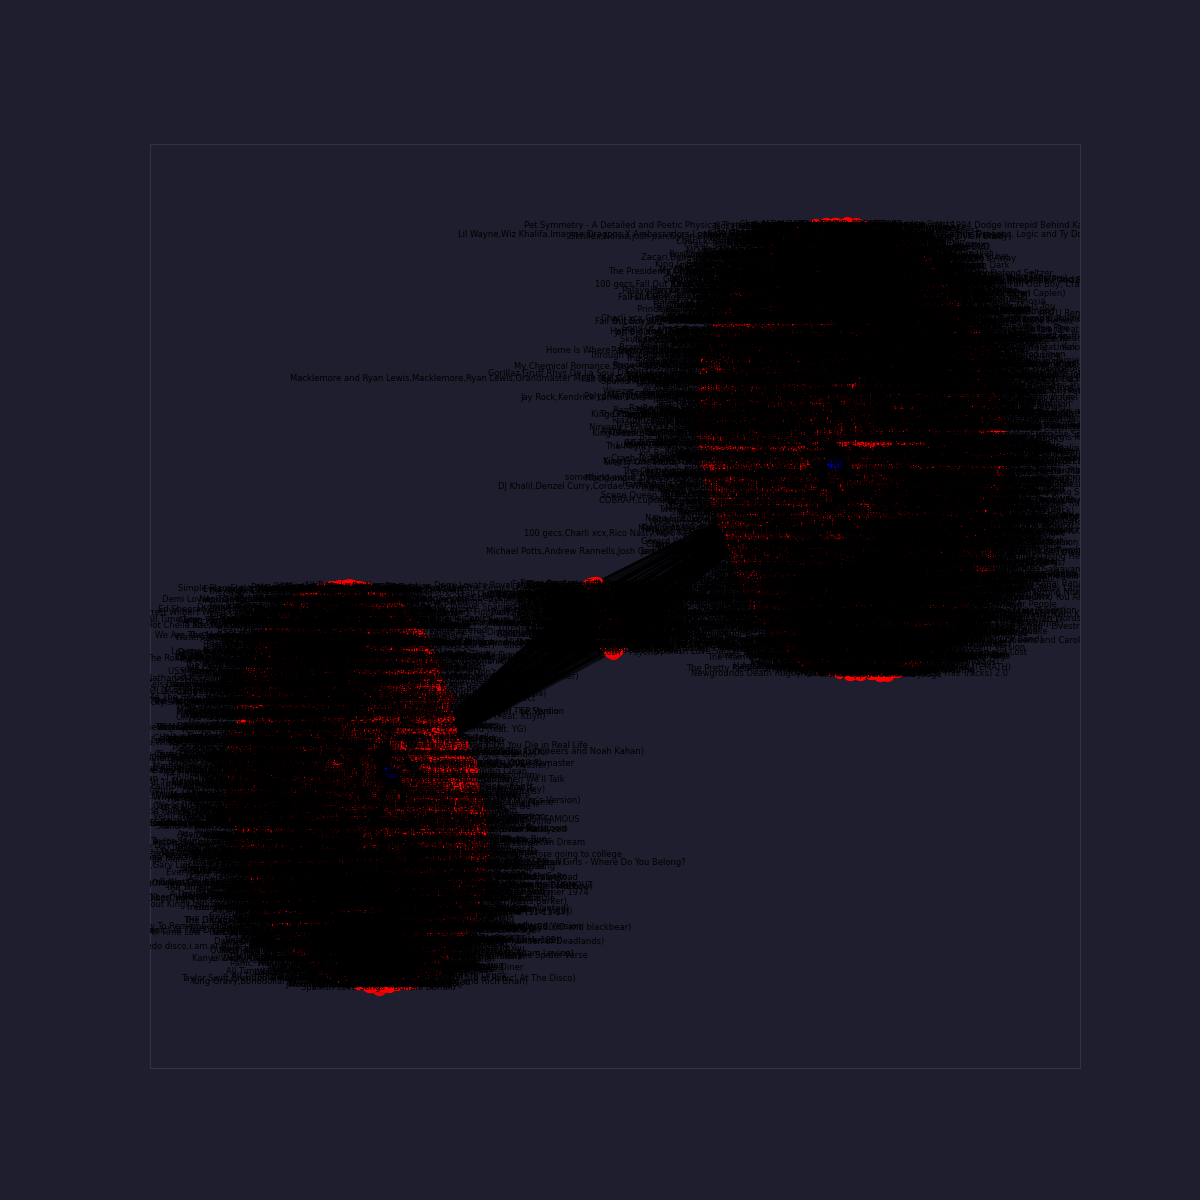
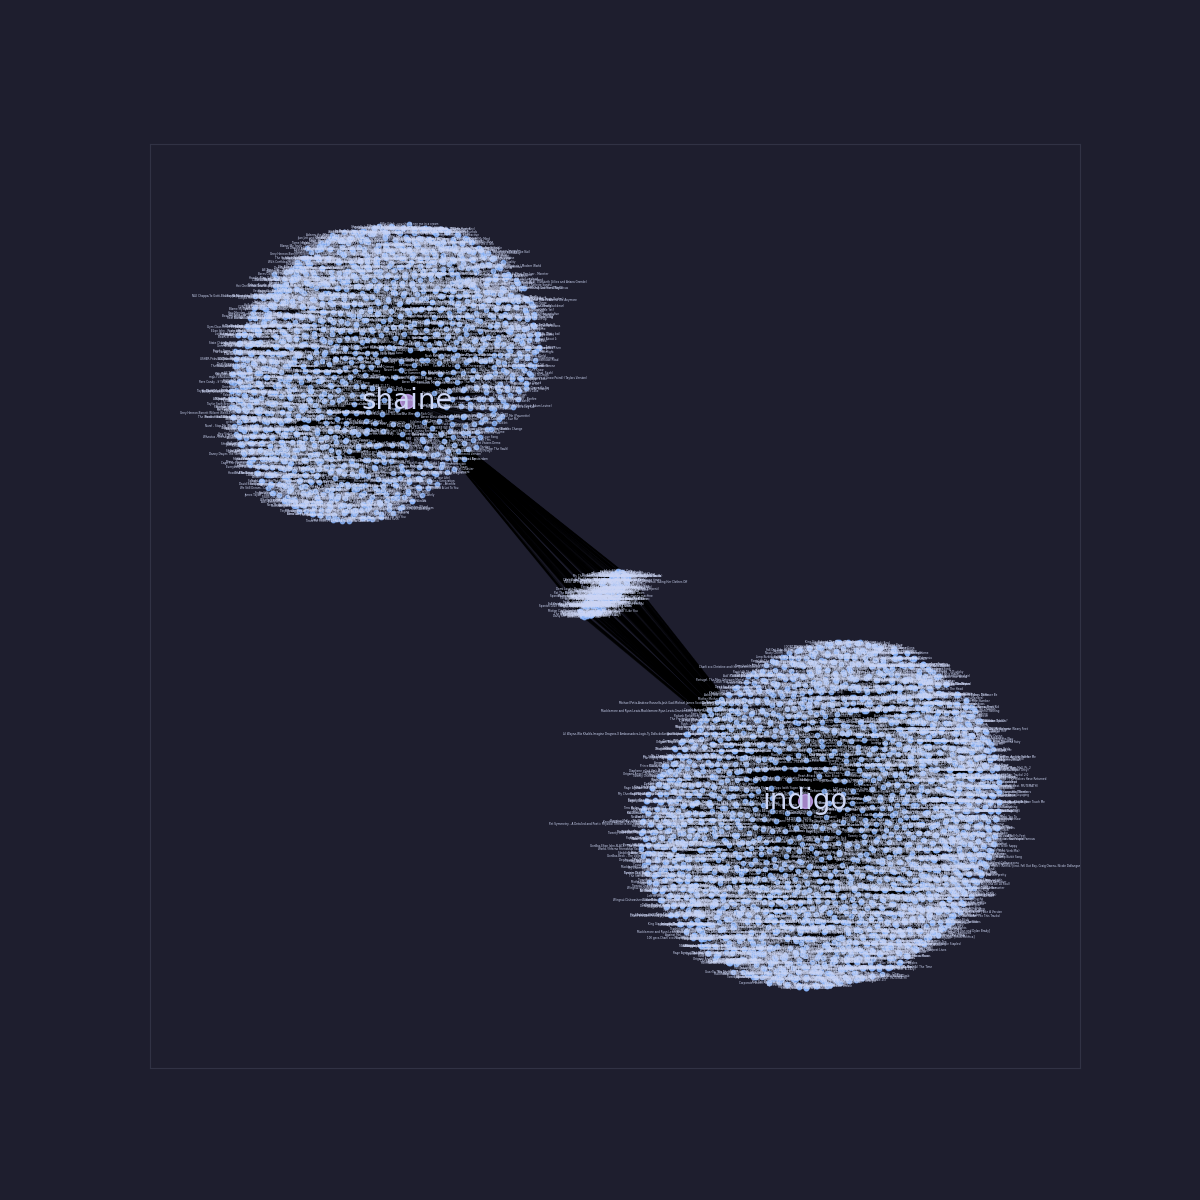
pause

diff --git a/main.py b/main.py
@@ -67,6 +67,9 @@ def create_nodes_and_edges(data):
     # Replace special characters in labels (#, $, %, &)
     track_labels = [label.replace("#", "sharp").replace("$", "dollar").replace("%", "percent").replace("&", "and") for label in track_labels]
 
+    # Replace any non-ascii characters in labels
+    track_labels = [label.encode('ascii', 'ignore').decode('ascii') for label in track_labels]
+
     # Create nodes
     nodes = []
     for user in users:
@@ -94,33 +97,34 @@ def visualize_network(nodes, edges):
     track_nodes = [node for node in nodes if node["type"] == "track"]
 
     # Add nodes and edges to the graph
-    G.add_nodes_from([node["id"] for node in user_nodes], type="user", bipartite=0, color=PALETTE.mocha.colors.mauve)
-    G.add_nodes_from([node["id"] for node in track_nodes], type="track", bipartite=1, color=PALETTE.mocha.colors.blue)
+    G.add_nodes_from([node["id"] for node in user_nodes], type="user", bipartite=0)
+    G.add_nodes_from([node["id"] for node in track_nodes], type="track", bipartite=1)
     G.add_edges_from([(edge["source"], edge["target"]) for edge in edges])
 
     # Configure plot
     mpl.style.use(PALETTE.mocha.identifier)
-    pos = nx.spring_layout(G)
+    pos = nx.spring_layout(G, k=0.03)
     plt.figure(figsize=(12, 12))
     plt.rcParams['text.usetex'] = False
 
     # Draw nodes
-    nx.draw_networkx_nodes(G, pos, nodelist=[node["id"] for node in user_nodes], node_color="b", node_size=100, alpha=0.8)
-    nx.draw_networkx_nodes(G, pos, nodelist=[node["id"] for node in track_nodes], node_color="r", node_size=100, alpha=0.8)
+    nx.draw_networkx_nodes(G, pos, nodelist=[node["id"] for node in user_nodes], node_size=100, alpha=0.8, node_color=PALETTE.mocha.colors.mauve.hex)
+    nx.draw_networkx_nodes(G, pos, nodelist=[node["id"] for node in track_nodes], node_size=10, alpha=0.8, node_color=PALETTE.mocha.colors.blue.hex)
 
     # Draw edges
     nx.draw_networkx_edges(G, pos, alpha=0.5)
 
-    # Draw labels
-    labels = {node["id"]: node["label"] for node in nodes}
-    nx.draw_networkx_labels(G, pos, labels, font_size=6)
+    # Draw user labels large
+    user_labels = {node["id"]: node["label"] for node in user_nodes}
+    nx.draw_networkx_labels(G, pos, labels=user_labels, font_size=20, font_color=PALETTE.mocha.colors.text.hex)
+
+    # Draw track labels small
+    track_labels = {node["id"]: node["label"] for node in track_nodes}
+    nx.draw_networkx_labels(G, pos, labels=track_labels, font_size=2, font_color=PALETTE.mocha.colors.text.hex)
     
     # Save the graph to a file
-    plt.savefig("out/network.png")
-    print("Network visualization saved to 'out/network.png'.")
-
-    # Show the plot
-    plt.show()
+    plt.savefig("out/network.svg", format="svg")
+    print("Network visualization saved to 'out/network.svg'.")
 
 def main():
     print("Getting ready to load data...")
